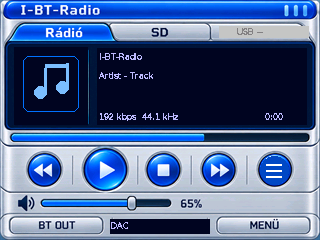
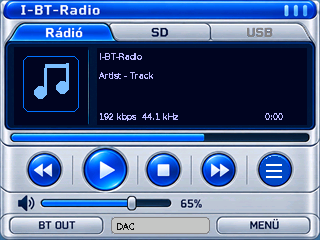
Align Media Player route field and disabled USB tab with skin style

Changed region(s): [[0.3438, 0.9042, 0.6562, 0.9917], [0.6875, 0.0875, 0.9688, 0.175]]

diff --git a/README.md b/README.md
@@ -14,11 +14,11 @@ A telepítő csak az alkalmazást írja a meglévő 16 MB-os flash kiosztásra. 
 
 A projekt a yoRadio GPL-3.0 licencű forrására épül. A forráscsomag a V157 forrásalapot, a licencet és a V159 HTTPS-módosítás patchét tartalmazza; önálló, reprodukálható V159 buildet még nem igazoltunk. A telepítő nem tartalmaz rádióról visszaküldött COM-naplókat vagy személyes hangfájlokat. Hibajelzés előtt távolítsd el a naplókból a Wi-Fi-adatokat és más személyes információkat.
 
-Skinverzió: **0.2.0-preview** · [Változások](CHANGELOG.md). I-BT RADIO felület, egyedi feliratokkal és kezelőelemekkel. Ez grafikai előnézet; a Bluetooth-hang hosszú távú stabilitási próbája még folyamatban van.
+Skinverzió: **0.3.0-preview** · [Változások](CHANGELOG.md). I-BT RADIO felület, egyedi feliratokkal és kezelőelemekkel. Ez grafikai előnézet; a Bluetooth-hang hosszú távú stabilitási próbája még folyamatban van.
 
 ## Skin előnézetek
 
-**0.2.0-preview · V166-R29 grafikai alap.** A képek előnézetek, nem hardveres tesztképek. A fent letölthető V159 telepítő korábbi kiadás; az új nézeteket nem tartalmazza.
+**0.3.0-preview · V166-R32 grafikai alap.** A képek előnézetek, nem hardveres tesztképek. A fent letölthető V159 telepítő korábbi kiadás; az új nézeteket nem tartalmazza.
 
 **Klasszikus** — BT-OUT és MENU gomb, semlegesített régi sarokembléma. Az EQ-görbe látványelem.
 

diff --git a/skins/media-player-320x240/README.md b/skins/media-player-320x240/README.md
@@ -1,5 +1,7 @@
-# media-player-320x240
+# Media Player · 320 × 240
 
-Media Player: player.png a jelenlegi renderer elrendezését követő előnézet, példaadatokkal. background.png a nyers firmware-háttér, beégetett illusztrációval; a renderer ezt futás közben lecseréli. USB inaktív.
+V166-R32 renderer-előnézet. Az alsó DAC/eszköznév ezüst, lekerekített mezőt kapott; az inaktív USB megőrzi az eredeti tab keretét és betűit. A képen példaadatok szerepelnek, nem hardveres teszt.
+
+player.png: működés közbeni elrendezés. background.png: nyers háttér, beégetett illusztrációval; a firmware ezt a tényleges metadata/vezérlés adataira cseréli. Az USB a SMALL klasszikus ESP32 hardveren inaktív. A nyilvános V159 telepítő ezt a fejlesztői nézetet nem tartalmazza.
 
 [Hash és eredet](../../skin-version.json).

diff --git a/README.en.md b/README.en.md
@@ -14,7 +14,7 @@ The installer writes the application only and keeps the existing 16 MB flash lay
 
 ## Skins
 
-**0.2.0-preview · V166-R29 graphics.** These are rendered previews, not device test screenshots. The downloadable V159 installer above is an older release and does not include the new views.
+**0.3.0-preview · V166-R32 graphics.** These are rendered previews, not device test screenshots. The downloadable V159 installer above is an older release and does not include the new views.
 
 **Classic:** BT-OUT and MENU buttons; neutralised legacy corner emblem. The EQ curve is decorative.
 

diff --git a/README.de.md b/README.de.md
@@ -16,7 +16,7 @@ V159 wurde gestartet und gab Radio über den DAC aus. Der Menütest wurde mit `s
 
 ## Oberflächen
 
-**0.2.0-preview · Grafikbasis V166-R29.** Gerenderte Vorschauen, keine Gerätetest-Fotos. Das oben angebotene V159-Installationspaket ist älter und enthält die neuen Ansichten nicht.
+**0.3.0-preview · Grafikbasis V166-R32.** Gerenderte Vorschauen, keine Gerätetest-Fotos. Das oben angebotene V159-Installationspaket ist älter und enthält die neuen Ansichten nicht.
 
 **Klassisch:** BT-OUT und MENU; neutrales Eckfeld statt des alten Emblems. Die EQ-Kurve ist dekorativ.
 

diff --git a/CHANGELOG.md b/CHANGELOG.md
@@ -1,3 +1,9 @@
+## 0.3.0-preview — 2026-10-10
+
+- Media Player: a kilógó fekete eszközmező az ezüst gombokhoz igazított keretet kapott.
+- Az inaktív USB tab megtartja az eredeti betűit és keretét; a lapos utólagos szürke téglalap megszűnt.
+- V166-R32 fejlesztői renderer szerinti előnézet, ellenőrzött RGB565 adatok. A letölthető firmware továbbra V159; fizikai R32 kijelző-/hangteszt még nincs.
+
 # 0.2.0-preview
 
 - Friss Klasszikus BT-OUT/MENU és Kazetta grafika a V166-R29 forrásból.
